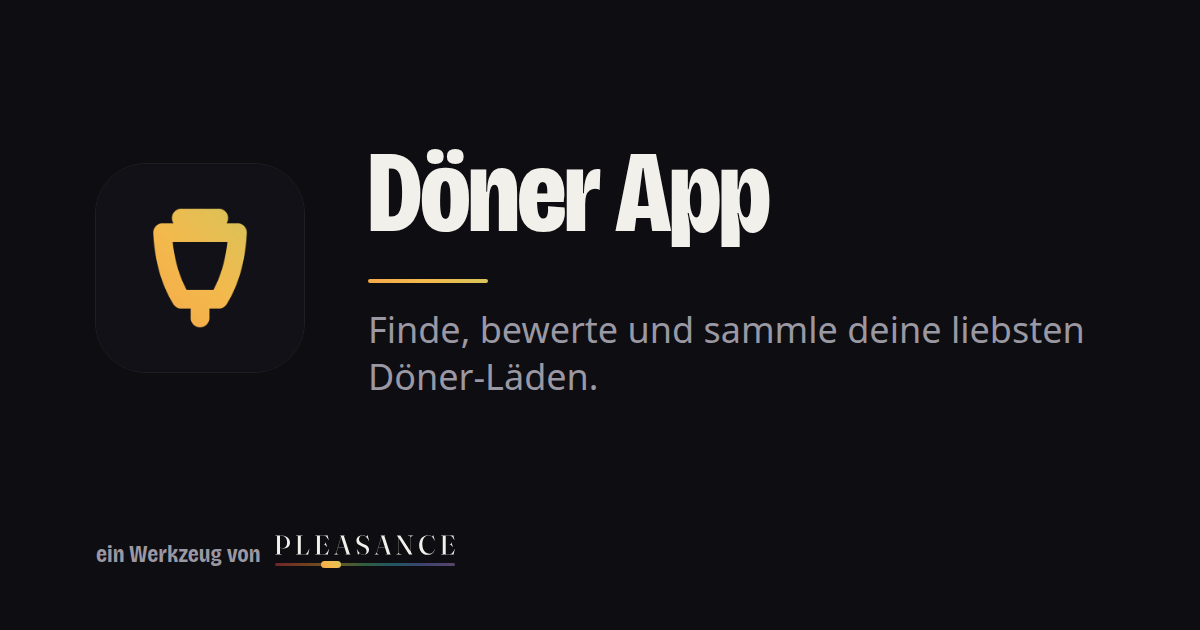
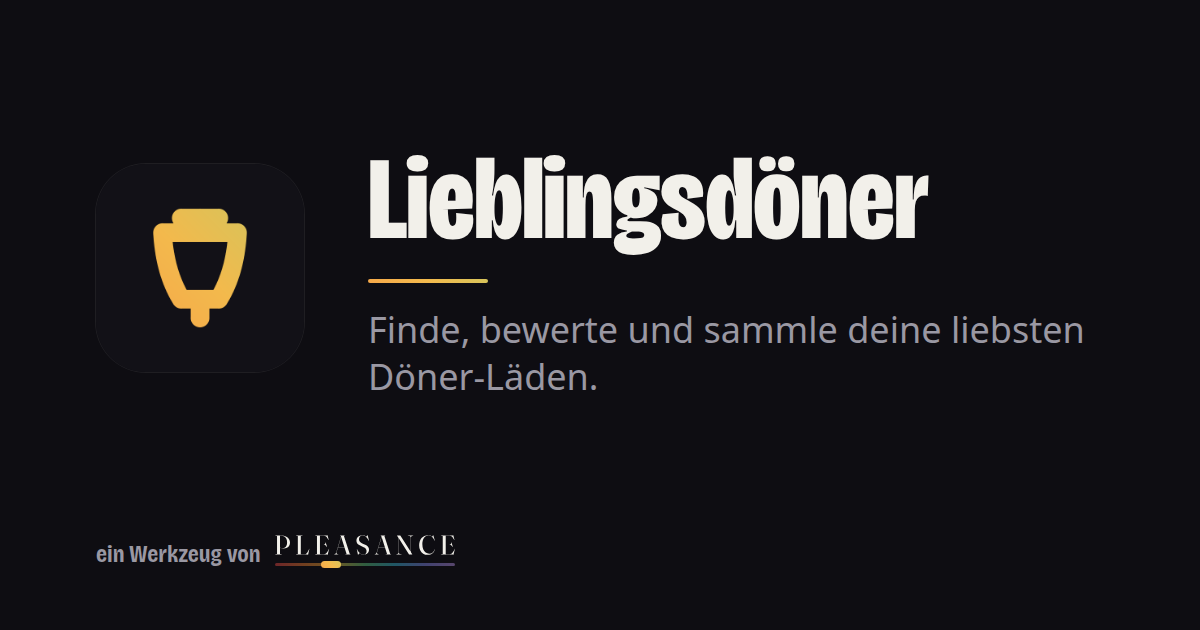
feat: rename the app to Lieblingsdöner
Store, landing page, mails and pushes say Lieblingsdöner; the home
screen label stays short as Döner so iOS doesn't truncate it. Slug,
bundle ID and domain are unchanged. Preview images are redrawn with
the new name.

Changed region(s): [[0.3083, 0.2413, 0.7708, 0.4222]]

diff --git a/server/test/api_test.dart b/server/test/api_test.dart
@@ -196,7 +196,7 @@ void main() {
     return (response.statusCode, text.isEmpty ? null : jsonDecode(text));
   }
 
-  String lastCode() => RegExp(r'Döner App: (\d{6})').firstMatch(mailer.sent.last.text)!.group(1)!;
+  String lastCode() => RegExp(r'Lieblingsdöner: (\d{6})').firstMatch(mailer.sent.last.text)!.group(1)!;
   String lastLinkToken() => RegExp(r'login\?token=([\w-]+)').firstMatch(mailer.sent.last.text)!.group(1)!;
 
   Future<(String, UserDto)> signUp(String email, String name) async {
@@ -688,7 +688,7 @@ void main() {
       await call('PUT', '/me/push-token', body: {...token}..remove('fetchKey'), token: bob);
       await resetLimit();
       await checkIn(waitForPush: true);
-      expect(pusher.sent.last.title, 'Döner App');
+      expect(pusher.sent.last.title, 'Lieblingsdöner');
       expect(pusher.sent.last.body, neutralPushText('friend_check_in').$2);
       expect(pusher.sent.last.data, isEmpty);
       expect((await call('DELETE', '/me/push-tokens/tok-bob', token: bob)).$1, 204);
@@ -1453,7 +1453,7 @@ void main() {
       final (invited, result) = await call('POST', '/auth/invite', body: {'email': ' Tess@Example.org'}, token: robin, closed: true);
       expect((invited, result['testFlight']), (200, null), reason: 'no iPhone, no TestFlight');
       expect(mailer.sent.last.to, 'tess@example.org');
-      expect(mailer.sent.last.subject, 'Robin lädt dich in die Döner App ein');
+      expect(mailer.sent.last.subject, 'Robin lädt dich zu Lieblingsdöner ein');
 
       final (status, body) = await verify('tess@example.org');
       expect(status, 200);
@@ -1553,7 +1553,7 @@ void main() {
 
       final (status, html) = await page('/i/$code');
       expect(status, 200);
-      expect(html, contains('<meta property="og:title" content="&lt;i&gt;Nora&lt;/i&gt; lädt dich in die Döner App ein">'));
+      expect(html, contains('<meta property="og:title" content="&lt;i&gt;Nora&lt;/i&gt; lädt dich zu Lieblingsdöner ein">'));
       expect(html, isNot(contains('<i>Nora')));
       expect(html, contains('<meta property="og:image" content="https://doener.test/icons/Icon-512.png">'));
       expect(html, contains('href="/app?invite=$code"'));
@@ -1712,7 +1712,7 @@ void main() {
     await maintainPlaceCache(deps);
     expect(pusher.sent.length, pushes + 1);
     expect(pusher.sent.last.tokens, ['tok-olga'], reason: 'everyone in the city who takes pushes now');
-    expect(pusher.sent.last.title, 'Döner App', reason: 'no fetch key, neutral');
+    expect(pusher.sent.last.title, 'Lieblingsdöner', reason: 'no fetch key, neutral');
     final event = await db.execute("SELECT title, body, pending FROM push_events WHERE type = 'new_place' ORDER BY pending");
     expect(event, [
       ['Neuer Döner in Freiburg', 'Neuer Grill hat aufgemacht', false],
@@ -1850,10 +1850,10 @@ void main() {
     final llms = await get('/llms.txt');
     expect(llms.headers['content-type'], 'text/plain; charset=utf-8');
     final text = await llms.readAsString();
-    expect(text, startsWith('# Döner App\n\n> Döner bewertet nach Soße'));
+    expect(text, startsWith('# Lieblingsdöner\n\n> Döner bewertet nach Soße'));
     expect(text, contains('https://doener.test/llms-full.txt'));
     expect(text, contains('https://doener.test/llms.txt?lang=en'));
-    expect(text, contains('- [Döner App – Der beste Döner deiner Stadt](https://doener.test/index.md): '));
+    expect(text, contains('- [Lieblingsdöner – Der beste Döner deiner Stadt](https://doener.test/index.md): '));
     expect(text, contains('- [Die besten Döner in Teststadt 2026](https://doener.test/bestenliste/teststadt/2026.md): 1. Grill 1 · 2. Grill 2 · 3. Grill 3'));
     expect(text, contains('(https://doener.test/datenschutz.md)'));
 
@@ -1879,8 +1879,8 @@ void main() {
 
     // Accept: text/markdown gets the Markdown under the page's own URL, everyone else the HTML.
     const md = {'accept': 'text/markdown'};
-    expect(await (await get('/', md)).readAsString(), startsWith('# Döner App – Der beste Döner deiner Stadt'));
-    expect(await (await get('/en', md)).readAsString(), startsWith('# Döner App – The best döner in your city'));
+    expect(await (await get('/', md)).readAsString(), startsWith('# Lieblingsdöner – Der beste Döner deiner Stadt'));
+    expect(await (await get('/en', md)).readAsString(), startsWith('# Lieblingsdöner – The best döner in your city'));
     expect(await (await get('/bestenliste/teststadt/2026/', md)).readAsString(), startsWith('# Die besten Döner in Teststadt 2026'));
     expect((await get('/')).headers['content-type'], 'text/html; charset=utf-8');
 
@@ -1996,7 +1996,7 @@ void main() {
 
     expect((await call('POST', '/admin/updates/$id/test', token: admin)).$1, 204);
     final test = mailer.sent.last;
-    expect((test.to, test.subject), ('robin@doener.test', '[Test] Neu in der Döner App: Neue Karte'));
+    expect((test.to, test.subject), ('robin@doener.test', '[Test] Neu bei Lieblingsdöner: Neue Karte'));
     expect(test.html, contains('Zwei'));
 
     final (published, update) = await call('POST', '/admin/updates/$id/publish', token: admin);
@@ -2015,7 +2015,7 @@ void main() {
     await deliverUpdateMails(deps, pause: Duration.zero);
     expect(mailer.sent.length, mails + 1);
     final mail = mailer.sent.last;
-    expect((mail.to, mail.subject), ('leser@example.org', 'Neu in der Döner App: Neue Karte'));
+    expect((mail.to, mail.subject), ('leser@example.org', 'Neu bei Lieblingsdöner: Neue Karte'));
     expect(mail.headers['List-Unsubscribe-Post'], 'List-Unsubscribe=One-Click');
     final (_, list) = await call('GET', '/admin/updates', token: admin);
     final listed = AdminUpdatesDto.fromJson(list as Map<String, dynamic>);

diff --git a/server/lib/src/updates.dart b/server/lib/src/updates.dart
@@ -131,32 +131,32 @@ UpdateDto _updateFromRow(Map<String, dynamic> row) => UpdateDto(
       '<table role="presentation" width="100%" cellpadding="0" cellspacing="0" border="0" style="background:#f4f4f1"><tr><td align="center" style="padding:32px 16px">'
       '<table role="presentation" width="100%" cellpadding="0" cellspacing="0" border="0" style="max-width:520px;background:#ffffff;border-radius:16px">'
       '<tr><td style="padding:32px 28px">'
-      '<div style="font-size:13px;color:#5e5e66;margin-bottom:8px">Neu in der Döner App</div>'
+      '<div style="font-size:13px;color:#5e5e66;margin-bottom:8px">Neu bei Lieblingsdöner</div>'
       '<h1 style="margin:0 0 16px;font-size:24px;line-height:30px;color:#17171a">${e(update.title)}</h1>'
       '<table role="presentation" cellpadding="0" cellspacing="0" border="0" width="100%">$items</table>'
       '<div style="height:26px"></div>'
       '<a href="${e(appUrl)}" style="display:inline-block;background:#f2c14e;color:#17171a;font-weight:600;text-decoration:none;'
-      'padding:12px 22px;border-radius:999px">Döner App öffnen</a>'
+      'padding:12px 22px;border-radius:999px">Lieblingsdöner öffnen</a>'
       '</td></tr></table>'
       '<p style="max-width:520px;font-size:12px;line-height:18px;color:#5e5e66;margin:18px auto 0">'
-      'Du bekommst diese Mail, weil du in der Döner App „Neuigkeiten per Mail“ eingeschaltet hast.<br>'
+      'Du bekommst diese Mail, weil du bei Lieblingsdöner „Neuigkeiten per Mail“ eingeschaltet hast.<br>'
       '<a href="${e(unsubscribePage)}" style="color:#5e5e66">Abbestellen</a></p>'
       '</td></tr></table></body></html>';
   final text = [
-    'Neu in der Döner App',
+    'Neu bei Lieblingsdöner',
     '',
     update.title,
     '',
     for (final f in update.features) '- $f',
     '',
-    'Döner App öffnen: $appUrl',
+    'Lieblingsdöner öffnen: $appUrl',
     '',
     '--',
-    'Du bekommst diese Mail, weil du in der Döner App „Neuigkeiten per Mail“ eingeschaltet hast.',
+    'Du bekommst diese Mail, weil du bei Lieblingsdöner „Neuigkeiten per Mail“ eingeschaltet hast.',
     'Abbestellen: $unsubscribePage',
   ].join('\n');
   return (
-    subject: 'Neu in der Döner App: ${update.title}',
+    subject: 'Neu bei Lieblingsdöner: ${update.title}',
     text: text,
     html: html,
     headers: {
@@ -229,7 +229,7 @@ Response _page(String title, String body, {int status = 200}) => Response(
       status,
       body: '<!DOCTYPE html><html lang="de"><head><meta charset="utf-8">'
           '<meta name="viewport" content="width=device-width, initial-scale=1"><meta name="robots" content="noindex">'
-          '<title>${_htmlEscape.convert(title)} – Döner App</title><style>'
+          '<title>${_htmlEscape.convert(title)} – Lieblingsdöner</title><style>'
           'body{margin:0;font-family:system-ui,sans-serif;background:#f4f4f1;color:#17171a;line-height:1.5}'
           'main{max-width:480px;margin:0 auto;padding:64px 24px;text-align:center}'
           'button{font:inherit;font-weight:600;border:0;border-radius:999px;padding:12px 24px;background:#f2c14e;color:#17171a;cursor:pointer}'
@@ -249,7 +249,7 @@ Future<Response> unsubscribePage(Deps deps, Request request) async {
   final token = _htmlEscape.convert(request.url.queryParameters['token'] ?? '');
   return _page(
     'Neuigkeiten abbestellen?',
-    '<p>Danach bekommst du keine Neuigkeiten zur Döner App mehr per Mail. Dein Konto bleibt, wie es ist.</p>'
+    '<p>Danach bekommst du keine Neuigkeiten zu Lieblingsdöner mehr per Mail. Dein Konto bleibt, wie es ist.</p>'
         '<form method="post" action="/abmelden?token=$token"><button type="submit">Abbestellen</button></form>',
   );
 }

diff --git a/docs/sticker/sticker.html b/docs/sticker/sticker.html
@@ -1,7 +1,7 @@
 <!doctype html>
 <html lang="de">
 <meta charset="utf-8">
-<title>Döner App – Sticker</title>
+<title>Lieblingsdöner – Sticker</title>
 <!-- 65 mm square sticker, QR to https://doener-api.pleasance.org.
      Print shop: open as is and print to PDF (69 mm page incl. 2 mm bleed).
      A4 sheet: open with #a4 (12 stickers with cut marks). -->
@@ -28,7 +28,7 @@ body.a4 .sticker { width: 65mm; height: 65mm; padding: 0; border-radius: 4mm; ou
 <body>
 <div class="sheet">
   <div class="sticker"><div class="inner">
-    <div class="brand"><img src="../../app/assets/icon.png" alt="">Döner App</div>
+    <div class="brand"><img src="../../app/assets/icon.png" alt="">Lieblingsdöner</div>
     <h1>Der beste Döner <em>deiner Stadt.</em></h1>
     <div class="bottom">
       <div class="code"><svg class="qr" xmlns="http://www.w3.org/2000/svg" viewBox="0 0 33 33" shape-rendering="crispEdges"><path fill="#ffffff" d="M0 0h33v33H0z"/><path stroke="#000000" d="M0 0.5h7m2 0h1m1 0h1m1 0h2m3 0h1m3 0h1m1 0h1m1 0h7M0 1.5h1m5 0h1m1 0h3m4 0h3m1 0h1m2 0h1m3 0h1m5 0h1M0 2.5h1m1 0h3m1 0h1m1 0h6m5 0h3m2 0h1m1 0h1m1 0h3m1 0h1M0 3.5h1m1 0h3m1 0h1m1 0h1m1 0h1m1 0h2m4 0h6m2 0h1m1 0h3m1 0h1M0 4.5h1m1 0h3m1 0h1m1 0h1m4 0h1m2 0h3m2 0h4m1 0h1m1 0h3m1 0h1M0 5.5h1m5 0h1m1 0h1m1 0h2m1 0h2m1 0h1m1 0h1m1 0h2m2 0h1m1 0h1m5 0h1M0 6.5h7m1 0h1m1 0h1m1 0h1m1 0h1m1 0h1m1 0h1m1 0h1m1 0h1m1 0h1m1 0h7M10 7.5h1m1 0h1m2 0h1m2 0h2m2 0h3M2 8.5h1m2 0h4m2 0h3m1 0h1m2 0h1m4 0h1m1 0h1m1 0h5M0 9.5h1m2 0h2m2 0h4m2 0h1m2 0h3m1 0h2m1 0h5m2 0h1m1 0h1M1 10.5h6m3 0h3m1 0h1m2 0h2m1 0h1m2 0h1m3 0h2m1 0h1m1 0h1M0 11.5h1m1 0h1m2 0h1m3 0h1m1 0h1m1 0h1m2 0h2m2 0h2m4 0h2M1 12.5h2m1 0h1m1 0h3m2 0h3m1 0h1m1 0h1m2 0h2m1 0h2m1 0h2m1 0h1m2 0h1M0 13.5h5m3 0h2m2 0h1m3 0h2m3 0h1m1 0h1m2 0h2m4 0h1M0 14.5h1m1 0h2m1 0h4m1 0h4m3 0h1m1 0h2m2 0h2m2 0h1m4 0h1M0 15.5h1m1 0h1m4 0h1m1 0h2m1 0h4m4 0h1m1 0h2m3 0h3M1 16.5h2m1 0h1m1 0h3m1 0h1m2 0h1m2 0h2m1 0h1m2 0h2m2 0h2m1 0h1m1 0h2M1 17.5h1m3 0h1m1 0h1m2 0h4m4 0h1m4 0h1m2 0h2m2 0h1m1 0h1M0 18.5h1m1 0h3m1 0h1m2 0h4m4 0h1m1 0h5m3 0h4m1 0h1M5 19.5h1m2 0h2m5 0h1m1 0h3m2 0h2m1 0h2m2 0h1m2 0h1M0 20.5h2m1 0h1m1 0h3m1 0h3m1 0h2m2 0h3m3 0h2m1 0h2M1 21.5h2m1 0h2m3 0h2m2 0h2m2 0h1m4 0h6m1 0h2m1 0h1M0 22.5h2m4 0h1m1 0h3m1 0h1m1 0h5m1 0h7m1 0h1m3 0h1M3 23.5h1m1 0h1m1 0h2m2 0h2m1 0h1m3 0h1m3 0h2m3 0h1m1 0h1M0 24.5h5m1 0h6m2 0h1m2 0h1m1 0h1m3 0h7m1 0h2M8 25.5h1m1 0h1m1 0h2m2 0h1m1 0h1m5 0h1m3 0h3m1 0h1M0 26.5h7m1 0h1m3 0h4m4 0h3m1 0h1m1 0h1m1 0h2m2 0h1M0 27.5h1m5 0h1m1 0h1m2 0h1m1 0h1m1 0h1m6 0h3m3 0h2m1 0h2M0 28.5h1m1 0h3m1 0h1m2 0h2m2 0h1m1 0h14M0 29.5h1m1 0h3m1 0h1m2 0h1m2 0h1m4 0h1m4 0h2m1 0h1m1 0h3m2 0h1M0 30.5h1m1 0h3m1 0h1m1 0h2m2 0h1m3 0h2m2 0h2m2 0h1m3 0h1m1 0h3M0 31.5h1m5 0h1m2 0h1m1 0h2m3 0h4m2 0h4M0 32.5h7m2 0h1m4 0h1m4 0h4m1 0h1m1 0h1m1 0h2m2 0h1"/></svg></div>

diff --git a/app/web/index.html b/app/web/index.html
@@ -21,27 +21,27 @@
   <meta name="description" content="Finde, bewerte und sammle deine liebsten Döner-Läden.">
 
   <!-- Link preview, static because crawlers don't run JavaScript -->
-  <meta property="og:site_name" content="Döner App">
+  <meta property="og:site_name" content="Lieblingsdöner">
   <meta property="og:type" content="website">
-  <meta property="og:title" content="Döner App">
+  <meta property="og:title" content="Lieblingsdöner">
   <meta property="og:description" content="Finde, bewerte und sammle deine liebsten Döner-Läden.">
   <meta property="og:image" content="https://doener-api.pleasance.org/og-image-de.png">
   <meta property="og:image:type" content="image/png">
   <meta property="og:image:width" content="1200">
   <meta property="og:image:height" content="630">
-  <meta property="og:image:alt" content="Döner App – Finde, bewerte und sammle deine liebsten Döner-Läden.">
+  <meta property="og:image:alt" content="Lieblingsdöner – Finde, bewerte und sammle deine liebsten Döner-Läden.">
   <meta name="twitter:card" content="summary_large_image">
 
   <!-- iOS meta tags & icons -->
   <meta name="mobile-web-app-capable" content="yes">
   <meta name="apple-mobile-web-app-status-bar-style" content="black">
-  <meta name="apple-mobile-web-app-title" content="Döner App">
+  <meta name="apple-mobile-web-app-title" content="Döner">
   <link rel="apple-touch-icon" href="icons/Icon-192.png">
 
   <!-- Favicon -->
   <link rel="icon" type="image/png" href="favicon.png"/>
 
-  <title>Döner App</title>
+  <title>Lieblingsdöner</title>
   <link rel="manifest" href="manifest.json">
 </head>
 <body>

diff --git a/server/lib/src/privacy.dart b/server/lib/src/privacy.dart
@@ -10,8 +10,8 @@ PublicPage privacyPublicPage({required bool english}) => (
       path: '/datenschutz',
       title: english ? 'Privacy policy (German)' : 'Datenschutz',
       description: english
-          ? 'What the Döner App stores, who processes it and your rights. Only available in German.'
-          : 'Was die Döner App speichert, wer es verarbeitet und welche Rechte du hast.',
+          ? 'What Lieblingsdöner stores, who processes it and your rights. Only available in German.'
+          : 'Was Lieblingsdöner speichert, wer es verarbeitet und welche Rechte du hast.',
       body: _privacyMarkdown,
     );
 
@@ -30,7 +30,7 @@ const _privacyHtml = '''<!DOCTYPE html>
 <head>
 <meta charset="utf-8">
 <meta name="viewport" content="width=device-width, initial-scale=1">
-<title>Datenschutz – Döner App</title>
+<title>Datenschutz – Lieblingsdöner</title>
 <style>
   body { margin: 0; font-family: system-ui, sans-serif; background: #fff8f0; color: #222; line-height: 1.5; }
   main { max-width: 680px; margin: 0 auto; padding: 32px 24px 64px; }
@@ -41,7 +41,7 @@ const _privacyHtml = '''<!DOCTYPE html>
 </head>
 <body><main>
 <h1>Datenschutz</h1>
-<p>Diese Erklärung gilt für die Döner App auf iOS und Android und für die Web-Version unter dieser Adresse. Stand: Oktober 2026.</p>
+<p>Diese Erklärung gilt für Lieblingsdöner auf iOS und Android und für die Web-Version unter dieser Adresse. Stand: Oktober 2026.</p>
 
 <h2>1. Verantwortlicher</h2>
 <p>Robin Wahl<br>Pleasance<br>Bugginger Straße 37<br>79114 Freiburg<br>E-Mail: <a href="mailto:hello@pleasance.org">hello@pleasance.org</a></p>

diff --git a/server/lib/src/landing.dart b/server/lib/src/landing.dart
@@ -137,7 +137,7 @@ PublicPage landingPublicPage(String base, {required bool english}) {
 
 final _de = _Texts(
   lang: 'de',
-  title: 'Döner App – Der beste Döner deiner Stadt',
+  title: 'Lieblingsdöner – Der beste Döner deiner Stadt',
   description: 'Döner bewertet nach Soße, Fleisch, Salat und Brot – von Leuten, die in deiner Gegend essen.',
   ogImage: 'og-image-de.png',
   navTest: 'Testen',
@@ -207,7 +207,7 @@ final _de = _Texts(
 
 final _en = _Texts(
   lang: 'en',
-  title: 'Döner App – The best döner in your city',
+  title: 'Lieblingsdöner – The best döner in your city',
   description: 'Döner rated by sauce, meat, salad and bread – by people who eat in your area.',
   ogImage: 'og-image-en.png',
   navTest: 'Try it',
@@ -378,7 +378,7 @@ String _page(_Texts t) {
 </script>
 <title>${t.title}</title>
 <meta name="description" content="${t.description}">
-<meta property="og:site_name" content="Döner App">
+<meta property="og:site_name" content="Lieblingsdöner">
 <meta property="og:type" content="website">
 <meta property="og:title" content="${t.title}">
 <meta property="og:description" content="${t.description}">
@@ -483,7 +483,7 @@ a { color: inherit; }
 <body>
 <div class="wrap">
   <header class="nav">
-    <a class="brand display" href="${t.lang == 'de' ? '/' : '/en'}"><img src="/icons/Icon-192.png" alt="">Döner App</a>
+    <a class="brand display" href="${t.lang == 'de' ? '/' : '/en'}"><img src="/icons/Icon-192.png" alt="">Lieblingsdöner</a>
     <a class="btn btn-ghost hide-m" href="#test">${t.navTest}</a>
   </header>
 

diff --git a/server/lib/src/best_of.dart b/server/lib/src/best_of.dart
@@ -203,7 +203,7 @@ Future<Response> bestOfPage(Deps deps, Request request, String slug, String year
   final url = '$base${bestOfPath(city, year)}';
   final head = '''<title>${_escape.convert(title)}</title>
 <meta name="description" content="${_escape.convert(top)}">
-<meta property="og:site_name" content="Döner App">
+<meta property="og:site_name" content="Lieblingsdöner">
 <meta property="og:type" content="article">
 <meta property="og:title" content="${_escape.convert(title)}">
 <meta property="og:description" content="${_escape.convert(top)}">
@@ -330,7 +330,7 @@ summary { cursor: pointer; padding: 8px 0; }
 </style>
 </head>
 <body><main>
-<header class="nav"><a class="brand display" href="${english ? '/en' : '/'}"><img src="/icons/Icon-192.png" alt="">Döner App</a>${otherLang == null ? '' : '<a class="muted" href="${_escape.convert(otherLang)}">${english ? 'Deutsch' : 'English'}</a>'}</header>
+<header class="nav"><a class="brand display" href="${english ? '/en' : '/'}"><img src="/icons/Icon-192.png" alt="">Lieblingsdöner</a>${otherLang == null ? '' : '<a class="muted" href="${_escape.convert(otherLang)}">${english ? 'Deutsch' : 'English'}</a>'}</header>
 $body
 <footer class="foot">
   <a class="sender" href="https://pleasance.org"><span>${english ? 'a tool by' : 'ein Werkzeug von'}</span><span class="mark"><img src="/assets/assets/pleasance-wordmark.svg" alt="Pleasance"><i></i></span></a>

diff --git a/packages/doener_models/lib/src/dtos.dart b/packages/doener_models/lib/src/dtos.dart
@@ -1433,11 +1433,11 @@ class InboxDto {
 
 /// What the notification says when the details can't be loaded: the type only.
 (String, String) neutralPushText(String? type) => switch (type) {
-      'friend_check_in' => ('Döner App', 'Ein Freund ist gerade beim Döner. Öffne die App für Details.'),
-      'friend_request' => ('Döner App', 'Du hast eine Freundschaftsanfrage. Öffne die App für Details.'),
-      'reaction' => ('Döner App', 'Jemand hat auf deinen Post reagiert. Öffne die App für Details.'),
-      'new_place' => ('Döner App', 'Ein neuer Döner hat aufgemacht. Öffne die App für Details.'),
-      _ => ('Döner App', 'Es gibt Neues in der Döner App.'),
+      'friend_check_in' => ('Lieblingsdöner', 'Ein Freund ist gerade beim Döner. Öffne die App für Details.'),
+      'friend_request' => ('Lieblingsdöner', 'Du hast eine Freundschaftsanfrage. Öffne die App für Details.'),
+      'reaction' => ('Lieblingsdöner', 'Jemand hat auf deinen Post reagiert. Öffne die App für Details.'),
+      'new_place' => ('Lieblingsdöner', 'Ein neuer Döner hat aufgemacht. Öffne die App für Details.'),
+      _ => ('Lieblingsdöner', 'Es gibt Neues bei Lieblingsdöner.'),
     };
 
 // MARK: - News

diff --git a/app/test/start_test.dart b/app/test/start_test.dart
@@ -62,7 +62,7 @@ class FakeServer {
         ).toJson()),
       '/me/inbox' => json(InboxDto(seenAt: now.subtract(const Duration(hours: 1)), items: [
           InboxItemDto(type: 'friend_visit', id: 'v1', timestamp: now, title: 'Tom hat bei Kebap Haus eingecheckt', placeId: 'p1', userId: 'u2', userName: 'Tom'),
-          InboxItemDto(type: 'news', id: 'n1', timestamp: now.subtract(const Duration(days: 2)), title: 'Neu in der Döner App', body: 'Die Glocke'),
+          InboxItemDto(type: 'news', id: 'n1', timestamp: now.subtract(const Duration(days: 2)), title: 'Neu bei Lieblingsdöner', body: 'Die Glocke'),
         ]).toJson()),
       '/updates/current' => json(const UpdateDto(id: 'n1', title: 'Neuigkeiten in der App', features: ['Eine Karte auf Start']).toJson()),
       '/places/new' => json(NewPlacesDto(
@@ -178,7 +178,7 @@ void main() {
     });
     await tester.pumpAndSettle();
     expect(find.text('Tom hat bei Kebap Haus eingecheckt'), findsOneWidget);
-    expect(find.text('Neu in der Döner App'), findsOneWidget);
+    expect(find.text('Neu bei Lieblingsdöner'), findsOneWidget);
     expect(server.calls('/me/inbox/seen'), hasLength(1));
 
     await tester.tap(find.byTooltip('Weniger davon'));

diff --git a/server/lib/src/auth.dart b/server/lib/src/auth.dart
@@ -313,9 +313,9 @@ Future<void> _mailLoginCode(Deps deps, String email,
   final appUrl = android ? (publicUrl == null ? null : '$publicUrl/android') : deps.config.appDownloadUrl;
   await deps.mailer.send(
     to: email,
-    subject: invitedBy == null ? 'Dein Login-Code: $code' : '$invitedBy lädt dich in die Döner App ein',
-    text: '${invitedBy == null ? '' : '$invitedBy hat dir ein Konto in der Döner App angelegt.\n\n'}'
-        'Dein Code für die Döner App: $code\n\n'
+    subject: invitedBy == null ? 'Dein Login-Code: $code' : '$invitedBy lädt dich zu Lieblingsdöner ein',
+    text: '${invitedBy == null ? '' : '$invitedBy hat dir ein Konto bei Lieblingsdöner angelegt.\n\n'}'
+        'Dein Code für Lieblingsdöner: $code\n\n'
         '${publicUrl == null ? '' : 'Oder direkt anmelden:\n$publicUrl/login?token=$token\n\n'}'
         '${testFlight ? 'Die iPhone-App kommt über TestFlight, die Einladung schickt dir Apple in einer eigenen Mail.\n\n' : invitedBy == null || appUrl == null ? '' : 'Die App für dein Handy:\n$appUrl\n\n'}'
         'Der Code ist ${loginRequestTtl.inMinutes} Minuten gültig. '

diff --git a/server/lib/src/shop_pages.dart b/server/lib/src/shop_pages.dart
@@ -39,7 +39,7 @@ Future<Response> reviewLinkPage(Deps deps, Request request, String placeId) asyn
     200,
     '''<title>$title</title>
 <meta property="og:title" content="$title">
-<meta property="og:description" content="Bewerte den Laden in der Döner App.">
+<meta property="og:description" content="Bewerte den Laden bei Lieblingsdöner.">
 <meta property="og:image" content="${_escape.convert(deps.config.publicBase(request.requestedUri))}/icons/Icon-512.png">
 <style>
   main { max-width: 420px; margin: 0 auto; padding: 48px 24px; text-align: center; }
@@ -88,7 +88,7 @@ Future<Response> posterPage(Deps deps, Request request, String placeId) async {
 ${_qrSvg(link)}
 <p class="link">${_escape.convert(link)}</p>
 <p class="steps">QR-Code scannen, Soße, Fleisch, Salat und Brot benoten –<br>daraus entsteht das Döner-Ranking${city == null ? '' : ' von ${_escape.convert(city)}'}.</p>
-<p class="source">Döner App · Ortsdaten: Google Maps</p>
+<p class="source">Lieblingsdöner · Ortsdaten: Google Maps</p>
 <button onclick="window.print()">Drucken</button>
 </main></body>''',
   );

diff --git a/server/lib/src/social.dart b/server/lib/src/social.dart
@@ -467,9 +467,9 @@ Future<Response> invitePage(Deps deps, Request request, String code) async {
   // Only known codes are echoed into the page, and those consist of [_inviteAlphabet] only.
   final title = inviter == null
       ? 'Einladung nicht gefunden'
-      : '${escape.convert(inviter.displayName)} lädt dich in die Döner App ein';
+      : '${escape.convert(inviter.displayName)} lädt dich zu Lieblingsdöner ein';
   final content = inviter == null
-      ? '<p>Der Link wurde zurückgesetzt oder ist falsch.</p><a class="button" href="/">Zur Döner App</a>'
+      ? '<p>Der Link wurde zurückgesetzt oder ist falsch.</p><a class="button" href="/">Zu Lieblingsdöner</a>'
       : '<p>Sieh, wo deine Freunde gerade Döner essen – und iss mit. Die App ist noch im Test: '
           'Bewirb dich, dann schalten wir dich frei.</p>'
           '<a class="button" href="/?von=$code#test">Als Tester bewerben</a>'
